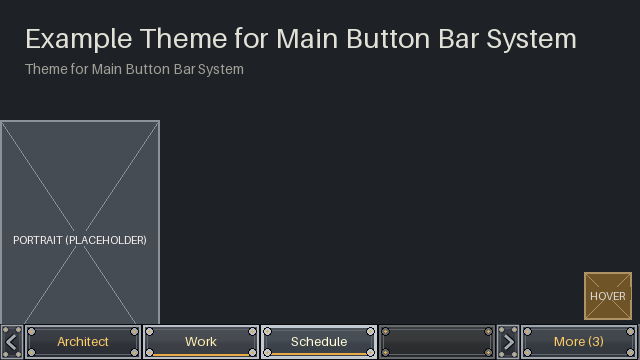
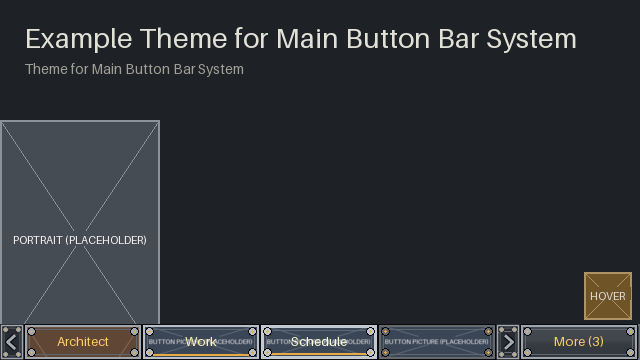
make_theme.py：按鈕背景圖與 hollow；ExampleTheme 範本示範
- JSON 的 buttonImage／buttonImages（button、file、placeholder 或 source、fit、anchor、verticalAnchor、opacity、
  inset）：寫進 Defs、產貼圖、驗證列舉值、數值範圍、重複按鈕與檔名衝突；預覽條先畫按鈕圖再畫框（擺放和 C# 的
  Core/ImageFit 同一套規則）。
- palette.hollow：四種狀態的按鈕 atlas 不填底色，只留邊框、內線、底線與角落裝飾；More 照舊有底色。
- 內建五款主題與萘伊重產後像素不變（只有 Pillow 版本造成的位元組差異，已還原）。
- ExampleTheme：預設按鈕圖、Architect（verticalAnchor Top）與 Research（Left、opacity 0.85）的佔位圖、hollow，
  重產整個範本。

Claude-Session: https://claude.ai/code/session_01JWa6i3JH6iW5w74yp6WUPr

Changed region(s): [[0.0312, 0.8861, 0.7812, 1.0]]

diff --git a/tools/make_theme.py b/tools/make_theme.py
@@ -15,13 +15,18 @@
 ##   defName / label / description / author / displayOrder
 ##   labelColor / labelMouseoverColor / labelActiveColor   [r,g,b,a] 0～1，null 表示不設
 ##   palette         base, edge, outline, rule, accent, active：[r,g,b]；ornament：finial / roundel / genetab /
-##                   shard / hull / petal；double, glow_on_hover：布林；icon, tile, rivet, active_rule：[r,g,b] 或 null
+##                   shard / hull / petal；double, glow_on_hover, hollow：布林；icon, tile, rivet, active_rule：[r,g,b] 或 null
+##                   hollow：true 時四種狀態的按鈕 atlas 不填底色（只留邊框、內線、底線、角落裝飾），按鈕圖才透得出來；
+##                   More 的 atlas 照舊有底色（它不會有按鈕圖）
 ##   background      barFit / drawerFit：Atlas / Tile / Stretch / Fit / Cover；barTileScale / drawerTileScale；
 ##                   bar / drawer：null（內建畫法）、{"placeholder": {"size": [w,h], "color": [r,g,b], "text": "…"}}
 ##                   或 {"source": "相對於 JSON 的 PNG 路徑"}
 ##   decorations     清單，每項：file（貼圖檔名，不含副檔名）、placeholder 或 source、target（Bar / Drawer）、
 ##                   anchor（Left / Center / Right）、verticalAnchor（Bottom / Center / Top）、offset [x,y]、
 ##                   size [w,h]、opacity、layer（BelowButtons / AboveButtons）、showWhen（[]、Normal、Mouseover、DrawerOpen）
+##   buttonImage     選填，每顆主按鈕的背景圖（畫在按鈕 atlas 底下）：file、placeholder 或 source、fit（Cover / Fit /
+##                   Stretch；Atlas、Tile 視同 Stretch）、anchor、verticalAnchor（Top / Center / Bottom）、opacity、inset
+##   buttonImages    選填清單，指定按鈕的背景圖，欄位同上再加 button（MainButtonDef 的 defName，例 "Architect"）
 ##   mod             只有完整模組需要：packageId、name、texturesRoot（Textures/ 底下的資料夾）、supportedVersions
 ##   translations    {"ChineseTraditional": {"label": "…", "description": "…"}, …}
 ##   gearSource      選填，齒輪圖示的來源 PNG；省略時找本模組的 Textures/MainButtonBarSystem/UI/Gear.png
@@ -45,12 +50,16 @@
 ##   _theme_image_apply_nine_slice()     — 在畫布上用九宮格方式畫 atlas（預覽用）
 ##   _theme_image_build_bar_strip()      — 一段模擬的按鈕列（遊戲內預覽貼圖）
 ##   _theme_decoration_derive_box()      — 裝飾圖的擺放，和 C# DecorationLayout.Place 同一套規則（預覽用）
+##   _theme_button_image_find()          — 某顆按鈕用的背景圖設定（指定優先，否則預設，否則 None）
+##   _theme_button_image_apply()         — 把按鈕背景圖畫進格子，和 C# Core/ImageFit 同一套規則（預覽用）
 ##   _theme_image_build_mod_preview()    — About/Preview.png
 ##   _theme_json_validate_fields()       — JSON 的必填欄位、列舉值、檔名衝突檢查
 ##   _theme_locate_gear()                — 找齒輪來源 PNG
 ##   _theme_palette_normalize()          — JSON 的顏色清單轉成 tuple
 ##   _theme_def_serialize_color()        — [r,g,b,a] → "(r, g, b, a)"
 ##   _theme_def_serialize_vector()       — [x,y] → "(x, y)"
+##   _theme_def_serialize_button_image() — 按鈕背景圖寫進 Defs 的欄位
+##   _theme_button_image_list()          — buttonImage 加 buttonImages 的清單
 ##   _theme_mod_write_about()            — About/About.xml
 ##   _theme_mod_write_defs()             — Defs/<name>_Themes.xml
 ##   _theme_mod_write_languages()        — Languages/<語言>/DefInjected/…
@@ -65,6 +74,8 @@
 ## V1.0：2026-11-04  從 gen_theme_textures.py 拆出；畫圖程式碼原樣搬入（像素不變），加上佔位圖、完整模組輸出
 ## V1.1：2026-11-04  review 後：JSON 列舉值與檔名衝突檢查、佔位圖文字依寬度縮字級、擺放算法提到模組層
 ## V1.2：2026-11-04  第二輪 review：檔名衝突不分大小寫；palette 不是物件時報 ValueError
+## V1.3：2026-11-04  按鈕背景圖：JSON 的 buttonImage／buttonImages（寫進 Defs、產貼圖、驗證、預覽條先畫圖再畫框）；
+##                   palette 的 hollow（按鈕 atlas 不填底色）
 import argparse
 import json
 import os
@@ -91,6 +102,7 @@ _THEME_DECORATION_DEFAULTS = {"target": "Bar", "anchor": "Left", "verticalAnchor
                               "size": [0, 0], "opacity": 1, "layer": "BelowButtons", "showWhen": []}
 _THEME_BACKGROUND_DEFAULTS = {"barFit": "Atlas", "drawerFit": "Atlas", "barTileScale": 1, "drawerTileScale": 1,
                               "bar": None, "drawer": None}
+_THEME_BUTTON_IMAGE_DEFAULTS = {"fit": "Cover", "anchor": "Center", "verticalAnchor": "Center", "opacity": 1, "inset": 0}
 _THEME_PALETTE_COLOR_KEYS  = ("base", "edge", "outline", "rule", "accent", "active", "icon", "tile", "rivet", "active_rule")
 _THEME_ORNAMENTS           = ("finial", "roundel", "genetab", "shard", "hull", "petal")   # 和 C# 無關，只有這支工具認得
 _THEME_FITS                = ("Atlas", "Tile", "Stretch", "Fit", "Cover")                  # 以下六組要和 C# 的列舉同名
@@ -99,7 +111,7 @@ _THEME_ANCHORS             = ("Left", "Center", "Right")
 _THEME_VERTICAL_ANCHORS    = ("Bottom", "Center", "Top")
 _THEME_LAYERS              = ("BelowButtons", "AboveButtons")
 _THEME_STATES              = ("Normal", "Mouseover", "DrawerOpen")
-_THEME_PREVIEW_LABELS      = ("Architect", "Work", "Schedule", "Assign")
+_THEME_PREVIEW_LABELS      = ("Architect", "Work", "Schedule", "Assign")                 # 預覽條的按鈕，也是原版的 defName（找按鈕圖用）
 _THEME_PREVIEW_BACKGROUND  = (30, 33, 38, 255)
 _THEME_PLACEHOLDER_TEXT    = (246, 242, 241, 255)
 
@@ -223,10 +235,11 @@ def _theme_atlas_build_hover_glow(image, palette, inner, state):
 ############################################################################################################
 #   _theme_atlas_build_button — 按鈕 atlas：漸層底、邊框、內線、狀態底線、角落裝飾
 ############################################################################################################
-def _theme_atlas_build_button(palette, fill, edge, state="normal"):
+def _theme_atlas_build_button(palette, fill, edge, state="normal", hollow=False):
     size = _THEME_ATLAS_SIZE
     image = Image.new("RGBA", (size, size))
-    _theme_atlas_apply_gradient(image, _theme_color_derive_shade(fill, 10), _theme_color_derive_shade(fill, -10))
+    if not hollow:  # hollow：不填底色，按鈕背景圖從中間透出來
+        _theme_atlas_apply_gradient(image, _theme_color_derive_shade(fill, 10), _theme_color_derive_shade(fill, -10))
     draw = ImageDraw.Draw(image)
     style = palette["ornament"]
     outline_offset = 0
@@ -414,6 +427,9 @@ def _theme_image_build_bar_strip(theme, textures, size):
         is_more = index == count - 1
         x = arrow + cell * index + (arrow if is_more else 0)
         atlas_name = "More" if is_more else states[index]
+        button_image = None if is_more else _theme_button_image_find(theme, _THEME_PREVIEW_LABELS[index])
+        if button_image:  # 和遊戲一樣：先畫按鈕圖，再畫框
+            _theme_button_image_apply(strip, textures[button_image["file"]], button_image, (x, 0, cell, height))
         _theme_image_apply_nine_slice(strip, textures[atlas_name], (x, 0, cell, height))
         if atlas_name == "ButtonDisabled":
             continue
@@ -449,6 +465,55 @@ def _theme_decoration_derive_box(decoration, image, target_box):
     x = {"Left": target_x, "Center": target_x + (target_w - box_w) / 2, "Right": target_x + target_w - box_w}[anchor]
     y = {"Top": target_y, "Center": target_y + (target_h - box_h) / 2, "Bottom": target_y + target_h - box_h}[vertical]
     return int(round(x + decoration["offset"][0])), int(round(y + decoration["offset"][1])), int(round(box_w)), int(round(box_h))
+
+
+############################################################################################################
+#   _theme_button_image_list — buttonImage 加上 buttonImages，一份清單（產貼圖、寫檔用）
+############################################################################################################
+def _theme_button_image_list(theme):
+    images = [theme["buttonImage"]] if theme.get("buttonImage") else []
+    return images + list(theme.get("buttonImages") or [])
+
+
+############################################################################################################
+#   _theme_button_image_find — 某顆按鈕（defName）用的背景圖設定：buttonImages 裡指定的優先，否則 buttonImage，否則 None
+############################################################################################################
+def _theme_button_image_find(theme, button):
+    for button_image in reversed(theme.get("buttonImages") or []):   # 和 C# 一樣，同一顆按鈕後面的贏
+        if button_image["button"] == button:
+            return button_image
+    return theme.get("buttonImage")
+
+
+############################################################################################################
+#   _theme_button_image_apply — 把按鈕背景圖畫進格子 box（x, y, w, h）：扣掉 inset 後依 fit 與錨點擺放，
+#   和 C# 的 Core/ImageFit 同一套規則（Cover 等比填滿、裁掉錨點另一側；Fit 等比放進去、放在錨點；其餘拉伸）
+############################################################################################################
+def _theme_button_image_apply(canvas, image, spec, box):
+    x, y, width, height = box
+    inset = int(round(spec["inset"]))
+    x, y, width, height = x + inset, y + inset, width - 2 * inset, height - 2 * inset
+    if width <= 0 or height <= 0:
+        return
+    image_w, image_h = image.size
+    fit = spec["fit"] if spec["fit"] in ("Cover", "Fit") else "Stretch"
+    horizontal = {"Left": 0.0, "Center": 0.5, "Right": 1.0}[spec["anchor"]]
+    vertical = {"Top": 0.0, "Center": 0.5, "Bottom": 1.0}[spec["verticalAnchor"]]
+    if fit == "Cover":
+        scale = max(width / image_w, height / image_h)
+        scaled = image.resize((max(width, round(image_w * scale)), max(height, round(image_h * scale))), Image.Resampling.BILINEAR)
+        left = int(round((scaled.width - width) * horizontal))
+        top = int(round((scaled.height - height) * vertical))
+        piece, origin = scaled.crop((left, top, left + width, top + height)), (x, y)
+    elif fit == "Fit":
+        scale = min(width / image_w, height / image_h)
+        piece = image.resize((max(1, round(image_w * scale)), max(1, round(image_h * scale))), Image.Resampling.BILINEAR)
+        origin = (x + int(round((width - piece.width) * horizontal)), y + int(round((height - piece.height) * vertical)))
+    else:
+        piece, origin = image.resize((width, height), Image.Resampling.BILINEAR), (x, y)
+    if spec["opacity"] < 1:
+        piece.putalpha(piece.getchannel("A").point(lambda value: int(value * spec["opacity"])))
+    canvas.alpha_composite(piece, origin)
 
 
 ############################################################################################################
@@ -523,6 +588,20 @@ def _theme_def_serialize_color(rgba):
 ############################################################################################################
 def _theme_def_serialize_vector(vector):
     return f"({vector[0]:g}, {vector[1]:g})"
+
+
+############################################################################################################
+#   _theme_def_serialize_button_image — 按鈕背景圖的欄位（texture、fit、錨點、opacity、inset），每行加縮排
+############################################################################################################
+def _theme_def_serialize_button_image(button_image, texture_prefix, indent):
+    return [
+        f"{indent}<texture>{texture_prefix}/{button_image['file']}</texture>",
+        f"{indent}<fit>{button_image['fit']}</fit>",
+        f"{indent}<anchor>{button_image['anchor']}</anchor>",
+        f"{indent}<verticalAnchor>{button_image['verticalAnchor']}</verticalAnchor>",
+        f"{indent}<opacity>{button_image['opacity']:g}</opacity>",
+        f"{indent}<inset>{button_image['inset']:g}</inset>",
+    ]
 
 
 ############################################################################################################
@@ -617,6 +696,17 @@ def _theme_mod_write_defs(theme, out_dir, texture_prefix):
                 lines.append("        <showWhen>" + "".join(f"<li>{state}</li>" for state in decoration["showWhen"]) + "</showWhen>")
             lines.append("      </li>")
         lines.append("    </decorations>")
+    if theme.get("buttonImage") or theme.get("buttonImages"):
+        lines += ["", "    <!-- Pictures inside the buttons, drawn under the button atlas: buttonImage for every button, buttonImages",
+                  "         for named ones (button = the MainButtonDef's defName). Fit: Cover (default) / Fit / Stretch. -->"]
+        if theme.get("buttonImage"):
+            lines += ["    <buttonImage>"] + _theme_def_serialize_button_image(theme["buttonImage"], texture_prefix, "      ") + ["    </buttonImage>"]
+        if theme.get("buttonImages"):
+            lines.append("    <buttonImages>")
+            for button_image in theme["buttonImages"]:
+                lines += ["      <li>", f"        <button>{escape(button_image['button'])}</button>"]
+                lines += _theme_def_serialize_button_image(button_image, texture_prefix, "        ") + ["      </li>"]
+            lines.append("    </buttonImages>")
     lines += [f"  </{_THEME_DEF_TYPE}>", "</Defs>", ""]
     os.makedirs(os.path.join(out_dir, "Defs"), exist_ok=True)
     with open(os.path.join(out_dir, "Defs", theme["name"] + "_Themes.xml"), "w", encoding="utf-8", newline="\n") as handle:
@@ -643,12 +733,13 @@ def _theme_mod_write_languages(theme, out_dir):
 ############################################################################################################
 def theme_build_textures(theme, gear_source, with_preview=False):
     palette = theme["palette"]
+    hollow = bool(palette.get("hollow"))   # 只影響四種狀態的按鈕；More 沒有按鈕圖，照舊有底色
     textures = {
-        "Button": _theme_atlas_build_button(palette, palette["base"], palette["edge"]),
-        "ButtonMouseover": _theme_atlas_build_button(palette, _theme_color_derive_shade(palette["base"], 14), _theme_color_derive_shade(palette["edge"], 25), "mouseover"),
-        "ButtonActive": _theme_atlas_build_button(palette, palette["active"], _theme_color_derive_shade(palette["edge"], 35), "active"),
+        "Button": _theme_atlas_build_button(palette, palette["base"], palette["edge"], hollow=hollow),
+        "ButtonMouseover": _theme_atlas_build_button(palette, _theme_color_derive_shade(palette["base"], 14), _theme_color_derive_shade(palette["edge"], 25), "mouseover", hollow),
+        "ButtonActive": _theme_atlas_build_button(palette, palette["active"], _theme_color_derive_shade(palette["edge"], 35), "active", hollow),
         "ButtonDisabled": _theme_atlas_build_button(palette, _theme_color_derive_grey(_theme_color_derive_shade(palette["base"], -4)),
-                                                    _theme_color_derive_grey(_theme_color_derive_shade(palette["edge"], -60)), "disabled"),
+                                                    _theme_color_derive_grey(_theme_color_derive_shade(palette["edge"], -60)), "disabled", hollow),
         "Bar": _theme_atlas_build_bar(palette),
         "More": _theme_atlas_build_button(palette, _theme_color_derive_mix(palette["base"], palette["active"], 0.6), palette["edge"]),
         "Drawer": _theme_atlas_build_drawer(palette),
@@ -670,6 +761,13 @@ def theme_build_textures(theme, gear_source, with_preview=False):
             textures[decoration["file"]] = _theme_image_load_source(theme, decoration["source"])
         else:
             raise ValueError(f"decoration {decoration['file']}: needs placeholder or source")
+    for button_image in _theme_button_image_list(theme):
+        if button_image.get("placeholder"):
+            textures[button_image["file"]] = _theme_image_build_placeholder(button_image["placeholder"])
+        elif button_image.get("source"):
+            textures[button_image["file"]] = _theme_image_load_source(theme, button_image["source"])
+        else:
+            raise ValueError(f"button image {button_image['file']}: needs placeholder or source")
     if with_preview:
         textures["Preview"] = _theme_image_build_bar_strip(theme, textures, _THEME_STRIP_SIZE)
     return textures
@@ -739,6 +837,50 @@ def _theme_json_validate_fields(theme, path):
                 problems.append(f"{where}: showWhen value '{state}' must be one of {', '.join(_THEME_STATES)}")
         if not decoration.get("placeholder") and not decoration.get("source"):
             problems.append(f"{where}: needs placeholder or source")
+    button_images = []
+    if theme.get("buttonImage") is not None:
+        if not isinstance(theme["buttonImage"], dict):
+            problems.append("buttonImage must be an object")
+        else:
+            button_images.append(("buttonImage", theme["buttonImage"]))
+            if "button" in theme["buttonImage"]:
+                problems.append("buttonImage: button is only used in buttonImages")
+    if theme.get("buttonImages") is not None and not isinstance(theme["buttonImages"], list):
+        problems.append("buttonImages must be a list")
+    else:
+        seen_buttons = set()
+        for index, button_image in enumerate(theme.get("buttonImages") or []):
+            where = f"buttonImages[{index}]"
+            if not isinstance(button_image, dict):
+                problems.append(f"{where} must be an object")
+                continue
+            button_images.append((where, button_image))
+            button = button_image.get("button")
+            if not button or not isinstance(button, str):
+                problems.append(f"{where}: button is missing (the MainButtonDef's defName, e.g. Architect)")
+            elif button in seen_buttons:
+                problems.append(f"{where}: button '{button}' is listed twice")
+            else:
+                seen_buttons.add(button)
+    for where, button_image in button_images:
+        file_name = button_image.get("file")
+        if not file_name:
+            problems.append(f"{where}: file is missing")
+        elif file_name.lower() in used_files:
+            problems.append(f"{where}: file '{file_name}' clashes with another texture of the theme")
+        else:
+            used_files.add(file_name.lower())
+        for key, allowed in (("fit", _THEME_FITS), ("anchor", _THEME_ANCHORS), ("verticalAnchor", _THEME_VERTICAL_ANCHORS)):
+            if key in button_image and button_image[key] not in allowed:
+                problems.append(f"{where}: {key} must be one of {', '.join(allowed)}")
+        opacity = button_image.get("opacity", 1)
+        if not isinstance(opacity, (int, float)) or not 0 <= opacity <= 1:
+            problems.append(f"{where}: opacity must be a number from 0 to 1")
+        inset = button_image.get("inset", 0)
+        if not isinstance(inset, (int, float)) or inset < 0:
+            problems.append(f"{where}: inset must be a number of pixels, 0 or more")
+        if not button_image.get("placeholder") and not button_image.get("source"):
+            problems.append(f"{where}: needs placeholder or source")
     if problems:
         raise ValueError(f"{path}: " + "; ".join(problems))
 
@@ -755,6 +897,8 @@ def theme_load(path):
     theme["palette"] = _theme_palette_normalize(theme["palette"])
     theme["background"] = {**_THEME_BACKGROUND_DEFAULTS, **(theme.get("background") or {})}
     theme["decorations"] = [{**_THEME_DECORATION_DEFAULTS, **decoration} for decoration in theme.get("decorations") or []]
+    theme["buttonImage"] = {**_THEME_BUTTON_IMAGE_DEFAULTS, **theme["buttonImage"]} if theme.get("buttonImage") else None
+    theme["buttonImages"] = [{**_THEME_BUTTON_IMAGE_DEFAULTS, **image} for image in theme.get("buttonImages") or []]
     for field in ("labelColor", "labelMouseoverColor", "labelActiveColor"):
         theme.setdefault(field, None)
     return theme
